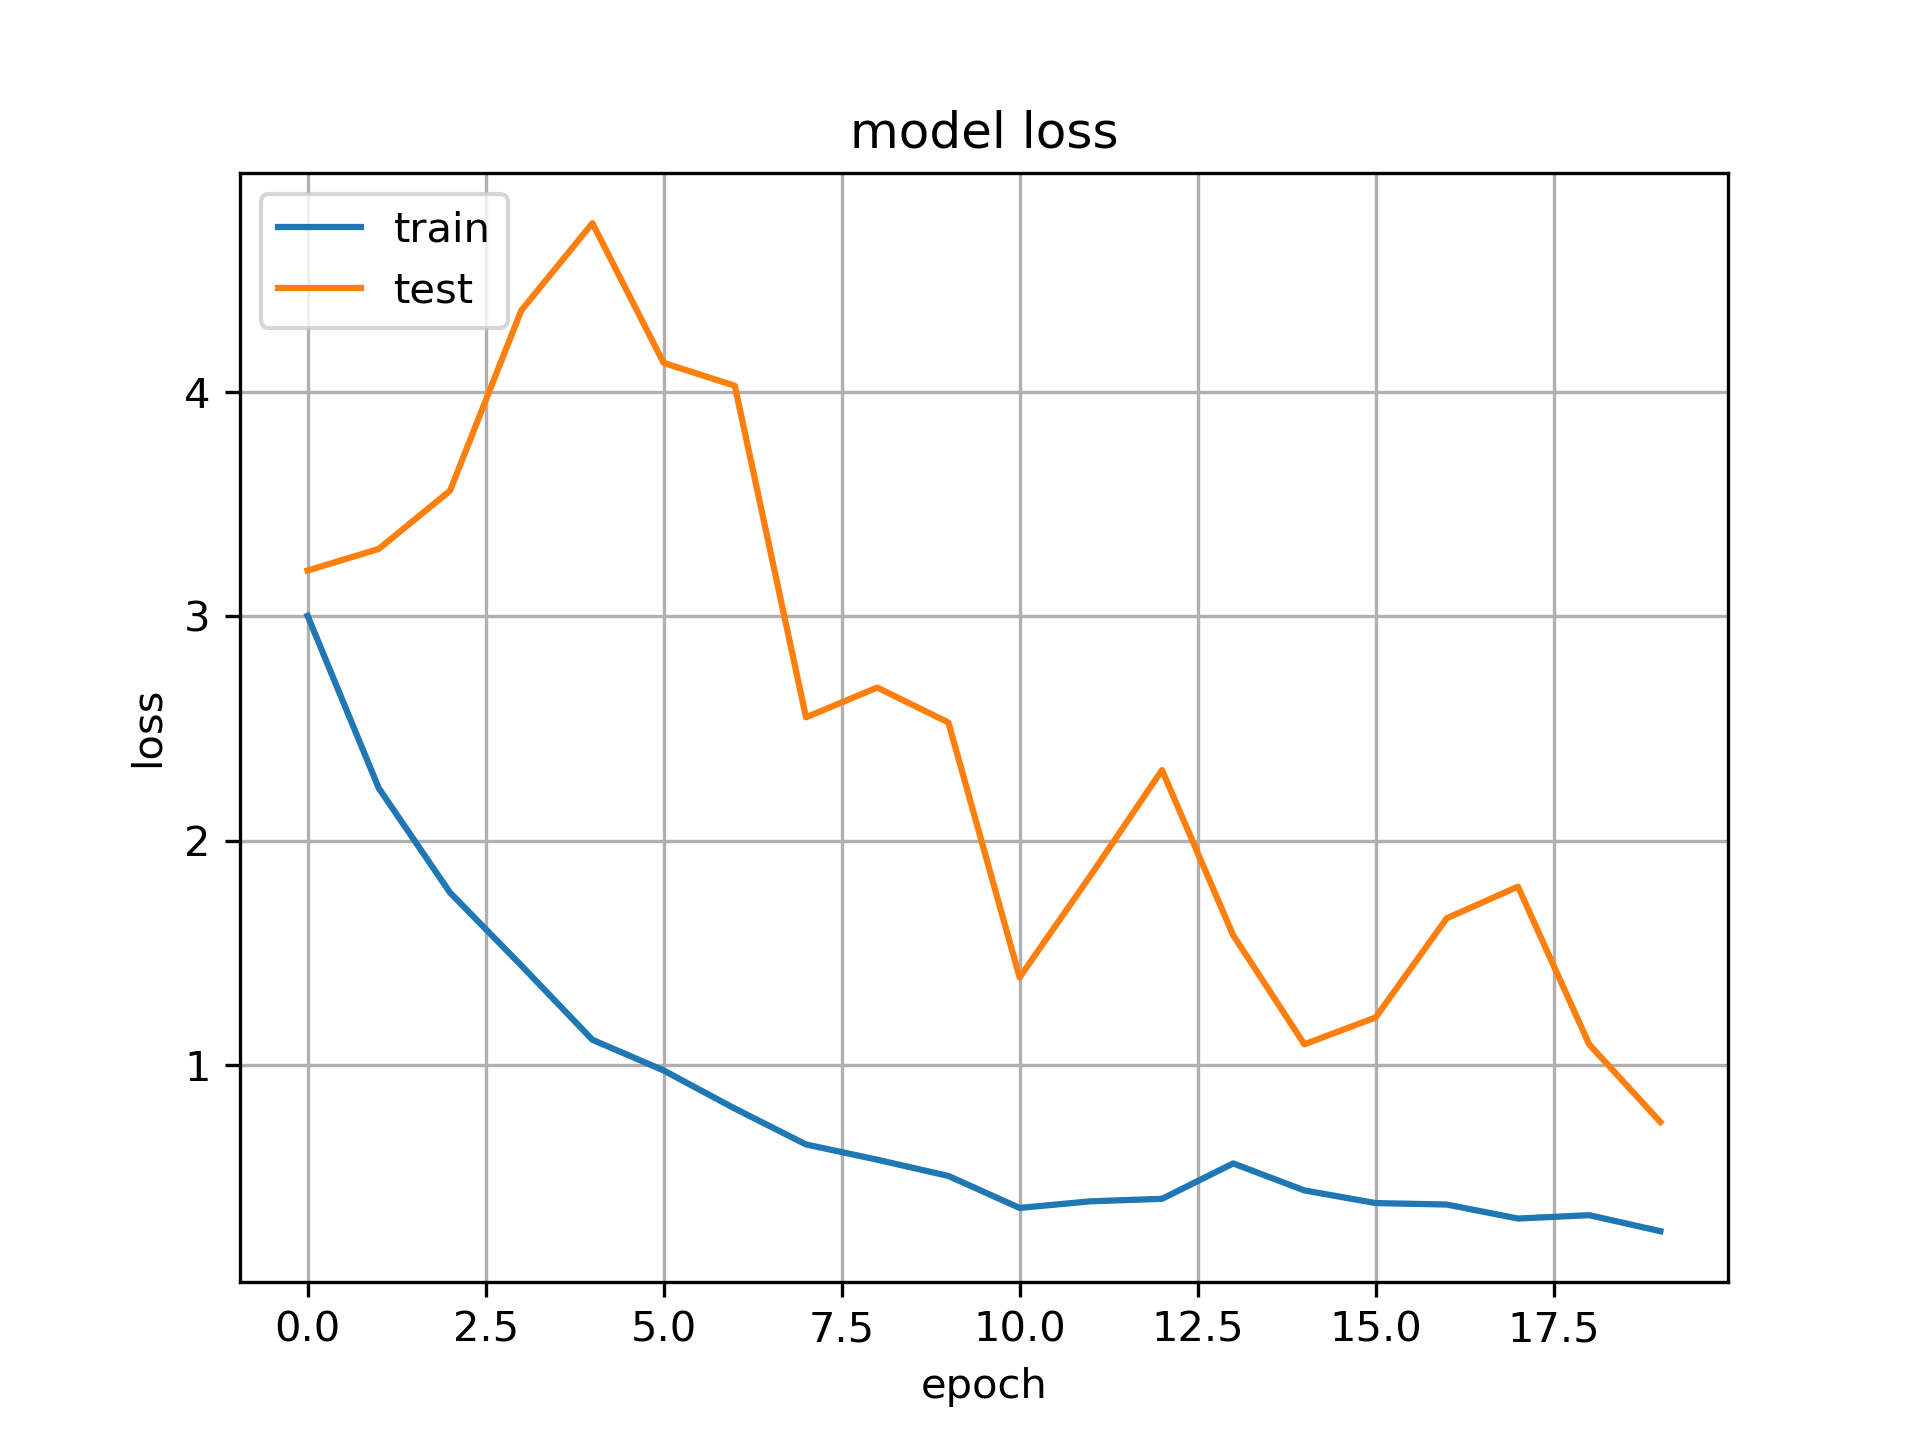
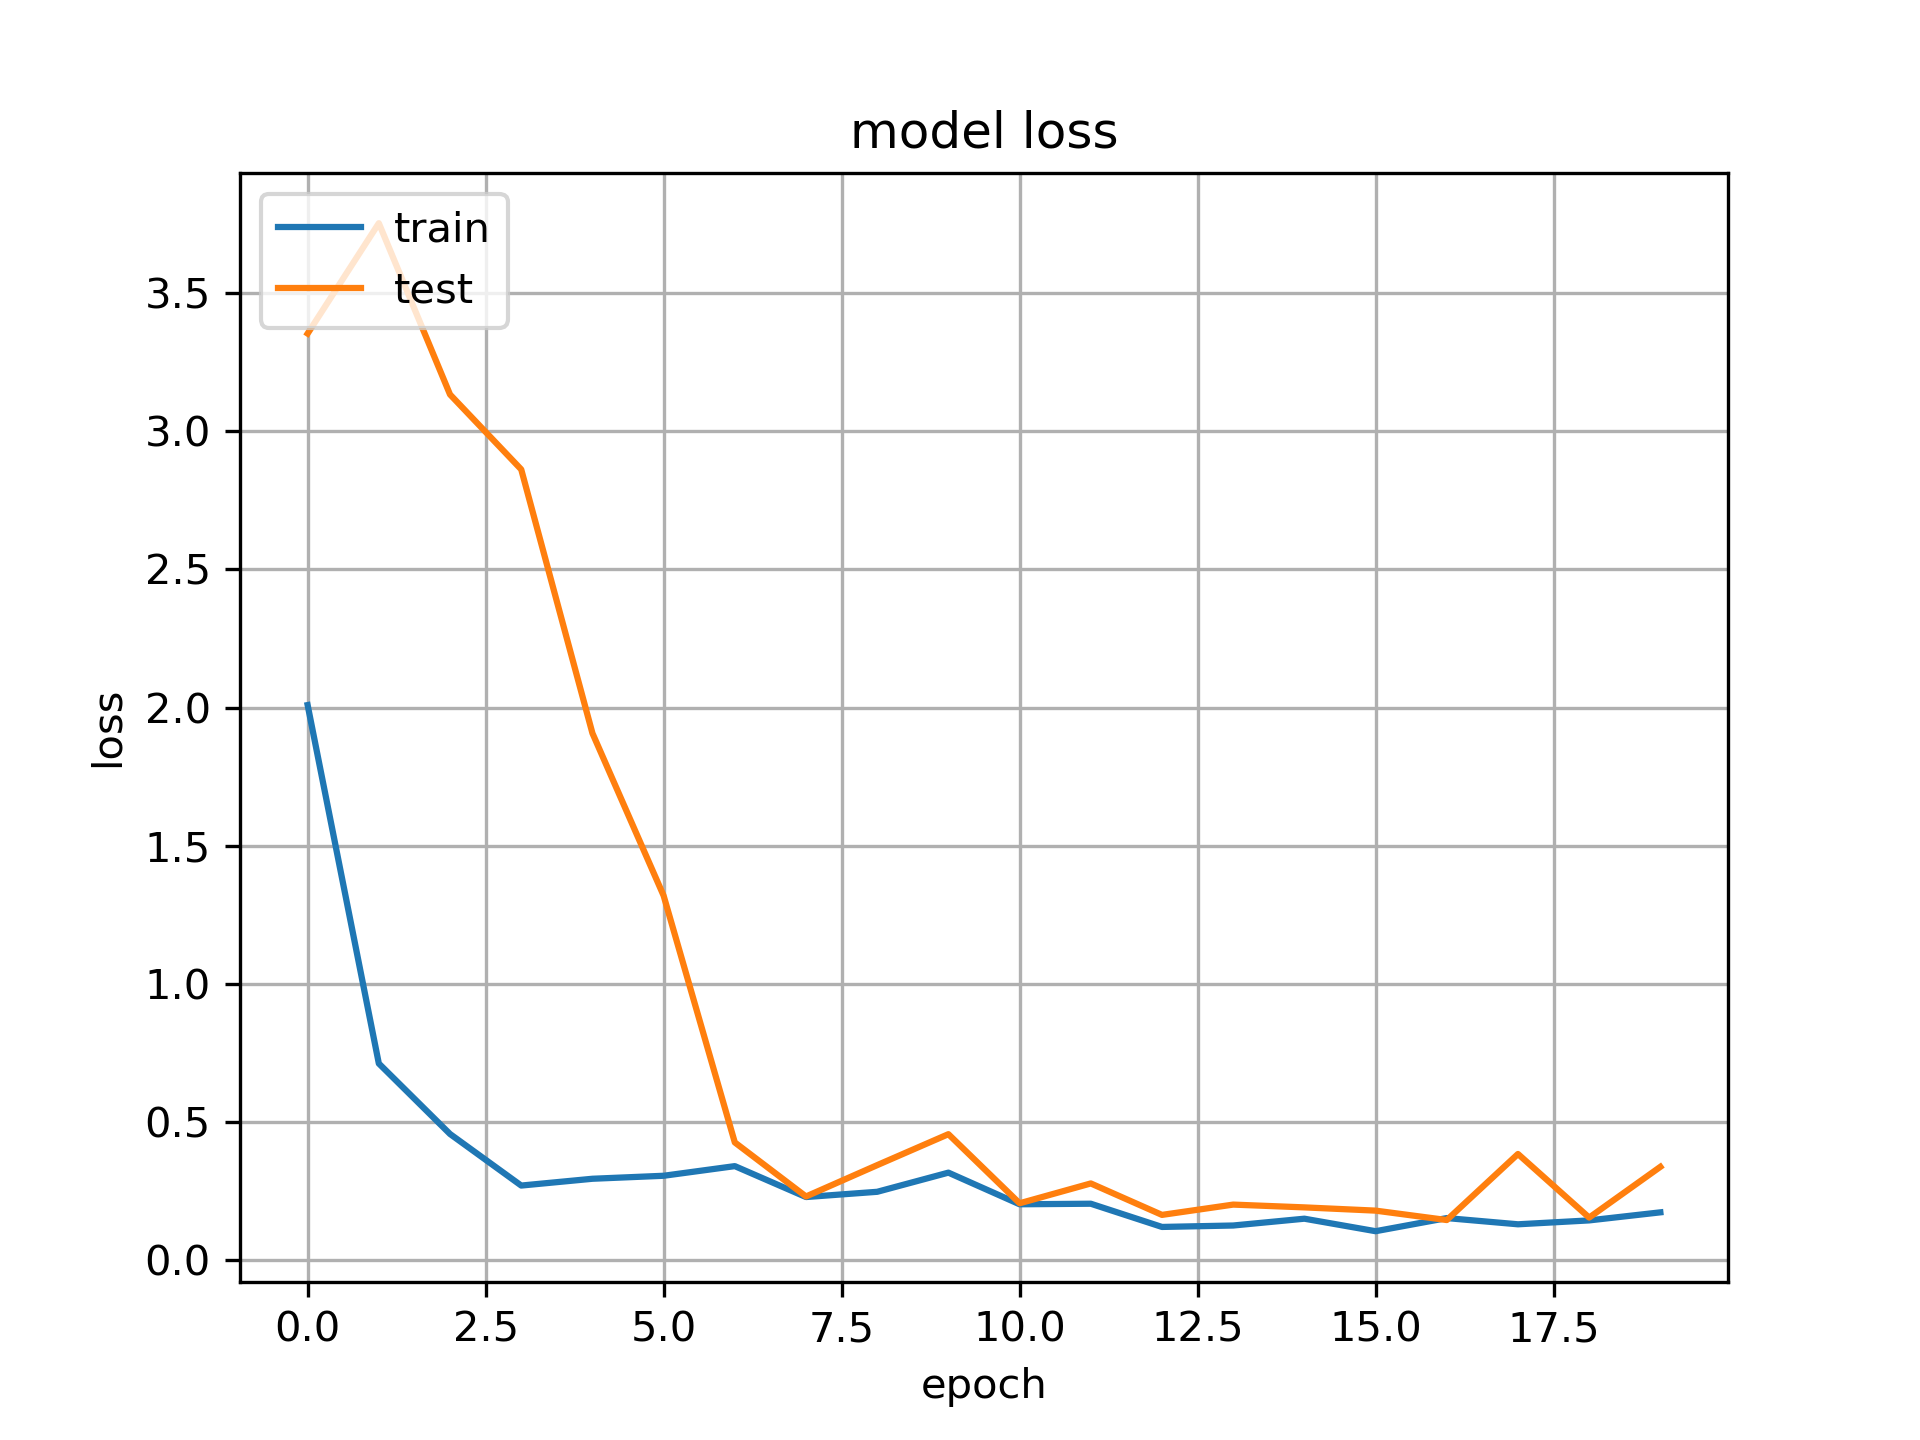
New tests

diff --git a/test_single.py b/test_single.py
@@ -3,19 +3,19 @@ from Experiments import mobile_net as mn
 from Experiments import dense_net as dn
 import handshape_datasets as hd
 
-epochs=10
-batch_size=64
-dataset_id="PugeaultASL_A"
+epochs=20
+batch_size=32
+dataset_id="lsa16"
 
 #
 # MobileNet
 mobile = mn.MobileNet(epochs, batch_size, dataset_id)
 model = mobile.build_model()
-X_train, X_test, Y_train, Y_test = mobile.split(0.25)
+X_train, X_test, Y_train, Y_test = mobile.split(0.1)
 history = mobile.load(model, X_train, Y_train, X_test, Y_test)
 mobile.graphics()
 mobile.get_result()
-
+"""
 
 #DenseNet
 denseNet = dn.DenseNet(epochs, batch_size, dataset_id)
@@ -24,3 +24,4 @@ X_train, X_test, Y_train, Y_test = denseNet.split(0.25)
 history = denseNet.load(model, X_train, Y_train, X_test, Y_test)
 denseNet.graphics()
 denseNet.get_result()
+"""

diff --git a/Experiments/mobile_net.py b/Experiments/mobile_net.py
@@ -109,7 +109,7 @@ class MobileNet(Experiment):
         #y_pred = model.predict_generator(model.fit_generator)
 
 
-        #y_pred = model.predict(x_val, batch_size=8)
+
 
         return model
 
@@ -120,6 +120,9 @@ class MobileNet(Experiment):
         graphic_acc_file=os.path.join(path,"figure_acc.png")
         graphic_loss_file = os.path.join(path, "figure_loss.png")
         self.plot_training_curves(self.history,graphic_acc_file, graphic_loss_file)
+
+
+        #y_pred = model.predict(X_test, batch_size=self.batch_size)
         #self.plot_confusion_matrix(y_true, y_pred)
 
 
